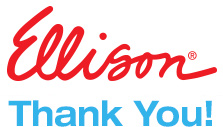
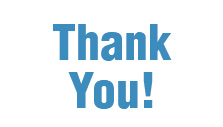
Newsletter Thankyou/confirm tweaks

diff --git a/app/stylesheets/partials/_theme_global.scss b/app/stylesheets/partials/_theme_global.scss
@@ -776,4 +776,55 @@ ul.ui-tabs-nav {
 
 }
 
+.email_bb_set1 {
+  width:910px; padding:0px; height:auto; margin:26px 20px 18px; float:left;
+}
+
+.email_bb1 {
+
+  width:308px; height:190px; float:left; ;
+
+  @if $system == szus {
+    background:url(/images/ui-email/bb1_custom_szus.jpg) no-repeat top left;
+} @else if $system == erus {
+    background:url(/images/ui-email/bb1_custom_erus.jpg) no-repeat top left;
+} @else if $system == szuk {
+    background:url(/images/ui-email/bb1_custom_szuk.jpg) no-repeat top left;
+} @else {
+    background:url(/images/ui-email/bb1_custom_eeus.jpg) no-repeat top left;
+}
+
+}
+
+.email_bb2 {
+
+  width:308px; height:190px; float:left; ;
+
+  @if $system == szus {
+    background:url(/images/ui-email/bb2_die_szus.jpg) no-repeat top left;
+} @else if $system == erus {
+    background:url(/images/ui-email/bb2_die_erus.jpg) no-repeat top left;
+} @else if $system == szuk {
+    background:url(/images/ui-email/bb2_die_szuk.jpg) no-repeat top left;
+} @else {
+    background:url(/images/ui-email/bb2_die_eeus.jpg) no-repeat top left;
+}
+
+}
+
+.email_bb3 {
+
+  width:290px; height:190px; float:left;
+
+  @if $system == szus {
+    background:url(/images/ui-email/bb3_mach_szus.jpg) no-repeat top left;
+} @else if $system == erus {
+    background:url(/images/ui-email/bb3_mach_erus.jpg) no-repeat top left;
+} @else if $system == szuk {
+    background:url(/images/ui-email/bb3_mach_szuk.jpg) no-repeat top left;
+} @else {
+    background:url(/images/ui-email/bb3_mach_eeus.jpg) no-repeat top left;
+}
+
+}
 
